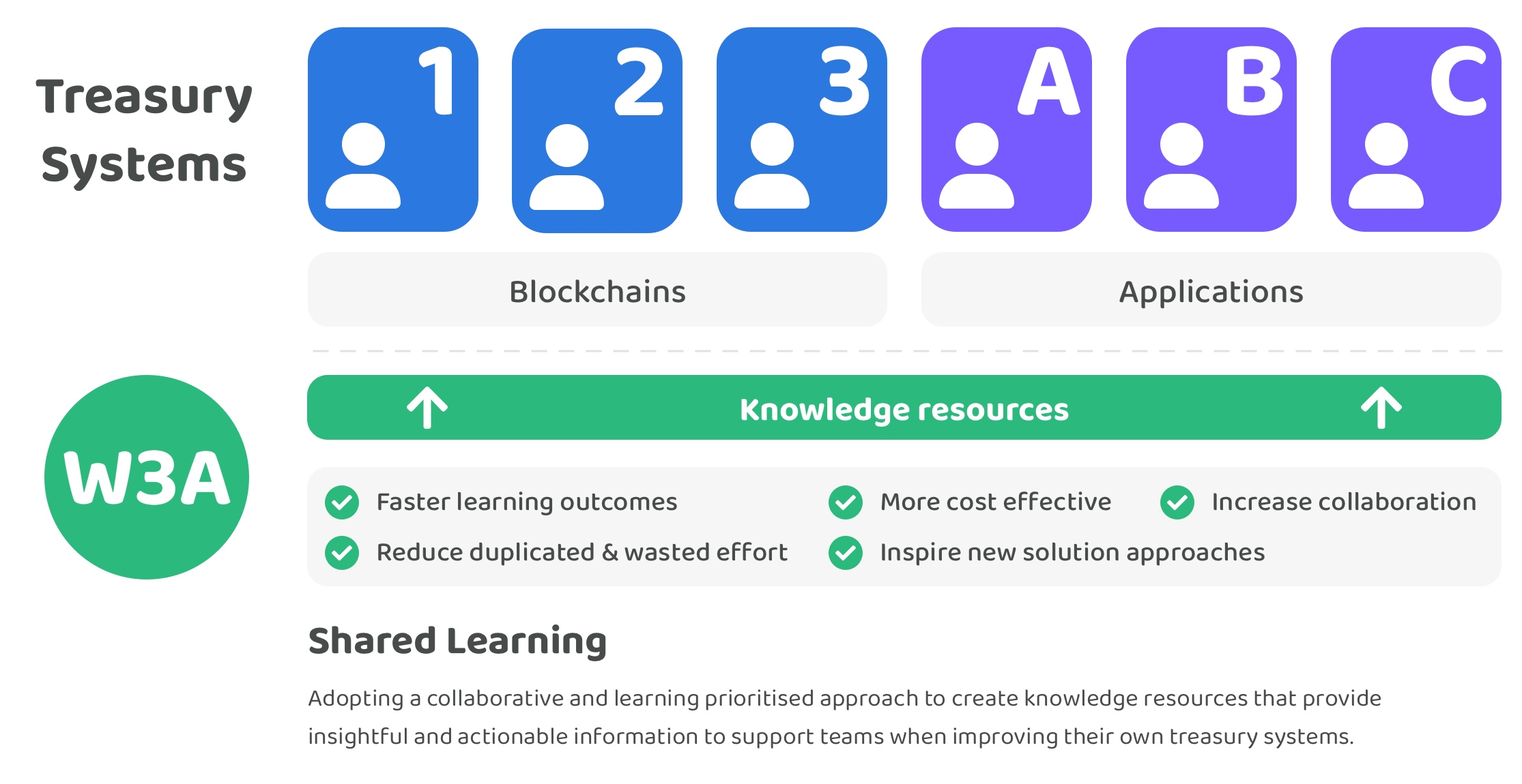
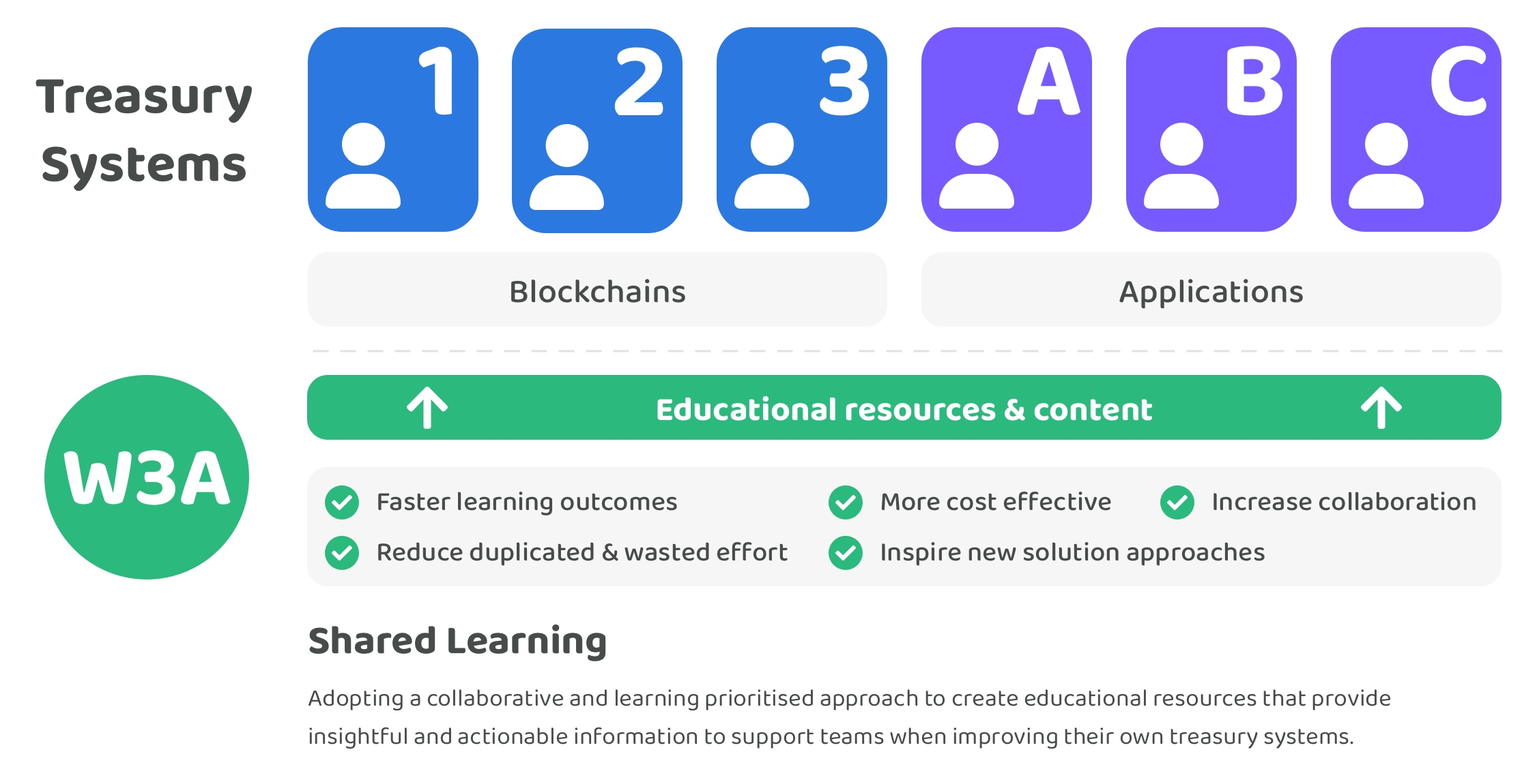
GITBOOK-124: change request with no subject merged in GitBook

Changed region(s): [[0.4332, 0.487, 0.7735, 0.5478], [0.6807, 0.8826, 0.9283, 0.913]]

diff --git a/approach/shared-learning-approach.md b/approach/shared-learning-approach.md
@@ -43,11 +43,11 @@ Without any collaborative and supportive structures in place most treasury teams
 
 <figure><img src="../.gitbook/assets/shared-learning.jpg" alt=""><figcaption></figcaption></figure>
 
-A focus on shared learning means increasing the amount of available knowledge resources available for teams to use when improving and iterating on their own treasury systems. The goal of shared learning is to help maximise collaboration and any learnings made across the industry. This helps increase the rate in which existing treasury systems can be improved and more widely adopted. Knowledge resources will focus on providing insights and actionable information for each ecosystem so they can more quickly identify ways to improve their treasury system in being able to manage and distribute community assets. Focussing on collaboration and shared learning creates an opportunity to help the wider industry achieve their goals at a faster rate. Our goal is for our knowledge resources to eventually become the industry preferred location to learn about treasury systems.
+A focus on shared learning means increasing the amount of available educational resources available for teams to use when improving and iterating on their own treasury systems. The goal of shared learning is to help maximise collaboration and any learnings made across the industry. This helps increase the rate in which existing treasury systems can be improved and more widely adopted. Educational resources will focus on providing insights and actionable information for each ecosystem so they can more quickly identify ways to improve their treasury system in being able to manage and distribute community assets. Focussing on collaboration and shared learning creates an opportunity to help the wider industry achieve their goals at a faster rate. Our goal is for our educational resources to eventually become the industry preferred location to learn about treasury systems.
 
 
 
-A group of contributors focussed on shared learning creates the opportunity for a supportive structure for helping existing teams building treasury solutions. Contributors would directly collaborate with and help existing teams through research, analysis and suggestions that focus on improving the knowledge available about treasury systems. The main [contribution outcomes ](contribution-outcomes/)of an approach focussing on shared learning is the creation of knowledge resources for the benefit of ecosystems building treasury solutions. Over the longer term there is also an opportunity to help with the development of open source software and supporting standardisation efforts.
+A group of contributors focussed on shared learning creates the opportunity for a supportive structure for helping existing teams building treasury solutions. Contributors would directly collaborate with and help existing teams through research, analysis and suggestions that focus on improving the knowledge available about treasury systems. The main [contribution outcomes ](contribution-outcomes/)of an approach focussing on shared learning is the creation of educational resources for the benefit of ecosystems building treasury solutions. Over the longer term there is also an opportunity to help with the development of open source software and supporting standardisation efforts.
 
 
 
@@ -57,13 +57,13 @@ A group of contributors focussed on shared learning creates the opportunity for 
 * **More cost effective** - Insightful and actionable information about treasury systems is beneficial for many blockchains and applications across Web3 ecosystems. A shared learning approach can become highly cost effective for these ecosystems as the cost of the contribution efforts can be split between each of the participating ecosystems. The full outcome of any resources created are available for the benefit of the entire industry. The more that the costs for these types of contributions can be shared across many ecosystems the more cost efficient the industry becomes in improving treasury systems. Reducing these costs also means that each ecosystem is then able to direct more funding to other impactful initiatives rather than doing repeated and similar work by themselves in isolation.
 * **Reduce duplicated & wasted effort** - Each existing team in the industry won’t need to spend the same amount of time doing deep research and analysis if they can support an approach that effectively creates those outcomes for them. Resources that increase the amount of knowledge available about treasury systems will help existing teams building treasury solutions be able to spend time on unsolved problems and avoid common pitfalls and mistakes. Removing the need for teams to conduct as much research and analysis themselves will help to reduce the duplicated and wasted effort that could happen across the industry.
 * **Inspire new solution approaches** - Resources that cover a wide range of potential ways that a treasury system could be approached can help with inspiring existing teams with finding new and novel ways to approach solving important treasury problems. More experimentation is greatly beneficial to the wider industry as any outcomes can be recorded and shared across different ecosystems when iterating on their own treasury system.
-* **Increase collaboration** - Contributors that help with creating treasury knowledge resources for the wider industry would not be competing with any existing teams building solutions. Ecosystems that financially support shared learning efforts can help to align the incentives for increasing the amount of collaboration between as many teams as possible by enabling contributors to help with creating high quality resources that can generate ongoing impact for those ecosystems. The higher the participation becomes for this shared learning approach the faster that teams across the industry can iterate and improve their own solutions. Increasing the diversity of skills, backgrounds, values and cultures involved in the creation of these knowledge resources can help with generating higher quality and more informed outcomes. Feedback from existing teams will also help to provide an effective path for iterating and improving these resources and increasing their overall impact over time.
+* **Increase collaboration** - Contributors that help with creating treasury educational resources for the wider industry would not be competing with any existing teams building solutions. Ecosystems that financially support shared learning efforts can help to align the incentives for increasing the amount of collaboration between as many teams as possible by enabling contributors to help with creating high quality resources that can generate ongoing impact for those ecosystems. The higher the participation becomes for this shared learning approach the faster that teams across the industry can iterate and improve their own solutions. Increasing the diversity of skills, backgrounds, values and cultures involved in the creation of these knowledge resources can help with generating higher quality and more informed outcomes. Feedback from existing teams will also help to provide an effective path for iterating and improving these resources and increasing their overall impact over time.
 
 
 
 **Potential issues**
 
-* **Collaboration time cost** - Existing communities and projects may not have much time to give and receive feedback on different problem areas they are working on. This could make it difficult to create knowledge resources with the same detail of information. Although this could be an issue it is not a blocker for making quality knowledge resources. Most data about the outcomes of many treasury systems is publicly available meaning it wouldn't prevent any contributors from being able to identify the approaches being used and what relevant insights and data points exist that can help identify effective solution approaches.
+* **Collaboration time cost** - Existing communities and projects may not have much time to give and receive feedback on different problem areas they are working on. This could make it difficult to create educational resources with the same detail of information. Although this could be an issue it is not a blocker for making quality educational resources. Most data about the outcomes of many treasury systems is publicly available meaning it wouldn't prevent any contributors from being able to identify the approaches being used and what relevant insights and data points exist that can help identify effective solution approaches.
 
 
 
@@ -73,13 +73,13 @@ A group of contributors focussed on shared learning creates the opportunity for 
 
 **Complementary and supportive approach**
 
-Contributors focussed on shared learning will be able to provide a complimentary and supportive structure to improve the knowledge and resources available around the focus area of treasury systems. Knowledge resources can be used across all Web3 ecosystems to help with improving their own treasury system. Incentivising shared learning at a foundational level can help better support existing teams who are building and learning about how to improve their own treasury system rather than working in isolation. A small capital allocation from different Web3 ecosystems towards increasing the amount of shared learning and knowledge available presents a large opportunity to increase the speed that Web3 ecosystems can collectively identify and adopt the more effective solutions. Quality knowledge, learnings and open source software that is readily available for usage and integration by existing project teams can help them to iterate more quickly and save time by reducing duplicated and wasted efforts.
+Contributors focussed on shared learning will be able to provide a complimentary and supportive structure to improve the knowledge and resources available around the focus area of treasury systems. Educational resources can be used across all Web3 ecosystems to help with improving their own treasury system. Incentivising shared learning at a foundational level can help better support existing teams who are building and learning about how to improve their own treasury system rather than working in isolation. A small capital allocation from different Web3 ecosystems towards increasing the amount of shared learning and knowledge available presents a large opportunity to increase the speed that Web3 ecosystems can collectively identify and adopt the more effective solutions. Quality knowledge, learnings and open source software that is readily available for usage and integration by existing project teams can help them to iterate more quickly and save time by reducing duplicated and wasted efforts.
 
 
 
 **Effectively incentivised collaboration**
 
-Contributors working under a shared learning approach are highly incentivised to collaborate with as many existing teams as possible to provide value and share learnings across Web3 ecosystems. Contributors supporting efforts to increase the knowledge around a given problem area are not competing with existing teams making treasury systems. Existing projects that benefit from more knowledge resources are more incentivised to support and collaborate with that ongoing work and provide feedback or request areas of improvement to further benefit the evolution of their own treasury system.
+Contributors working under a shared learning approach are highly incentivised to collaborate with as many existing teams as possible to provide value and share learnings across Web3 ecosystems. Contributors supporting efforts to increase the knowledge around a given problem area are not competing with existing teams making treasury systems. Existing projects that benefit from more educational resources are more incentivised to support and collaborate with that ongoing work and provide feedback or request areas of improvement to further benefit the evolution of their own treasury system.
 
 
 

diff --git a/approach/contribution-process/README.md b/approach/contribution-process/README.md
@@ -6,27 +6,27 @@ description: >-
 
 # 🏃♂ Contribution process
 
-The following contribution process outlines the main steps involved for creating the contribution outcomes of knowledge resources, open source software and standards. Each step in this process can be started and repeatedly revisited over time as more data and insights emerge. For this contribution process to be truly effective it will need have the right environment. Some factors worth consideration in [creating the right environment](creating-the-right-environment.md) will be directing focus towards impact alignment, collaboration, iterating on the contribution process, increasing participation diversity and providing ongoing maintenance and support to improve any of resources.
+The following contribution process outlines the main steps involved for creating the contribution outcomes of educational resources, open source software and standards. Each step in this process can be started and repeatedly revisited over time as more data and insights emerge. For this contribution process to be truly effective it will need have the right environment. Some factors worth consideration in [creating the right environment](creating-the-right-environment.md) will be directing focus towards impact alignment, collaboration, iterating on the contribution process, increasing participation diversity and providing ongoing maintenance and support to improve any of resources.
 
 <figure><img src="../../.gitbook/assets/contribution-process.jpg" alt=""><figcaption></figcaption></figure>
 
 
 
-### **Knowledge resources (Short term)**
+### **Educational resources (Ongoing priority)**
 
-The usefulness of any insights generated by the knowledge resources created will ultimately determine how much impact the Web3 Association will generate towards supporting and improving treasury systems. Any knowledge resources that we create will be revisited on an ongoing basis as new insights, data and feedback emerge. Knowledge resources are the most important contribution to the Web3 Association if we are to effectively achieve our goal of making insightful and actionable resources for learning about and improving treasury systems. Our goal over time will be to create the industry preferred resources regarding treasury systems.
+The usefulness of any insights generated by the educational resources created will ultimately determine how much impact the Web3 Association will generate towards supporting and improving treasury systems. Any educational resources that we create will be revisited on an ongoing basis as new insights, data and feedback emerge. Educational resources are the most important contribution to the Web3 Association if we are to effectively achieve our goal of making insightful and actionable resources for learning about and improving treasury systems. Our goal over time will be to create the industry preferred resources regarding treasury systems.
 
 
 
 **1. Identify focus area**
 
-Initial contribution outcomes made towards supporting and improving treasury systems will be achieved by selecting one focus area at a time to start the iterative process of inviting collaboration, conducting research and analysis and then making suggestions to create useful knowledge resources. Contributors operating under a shared learning approach will collaborate with teams building treasury systems to identify which areas are the most important to work on in the short term. Some example areas could be defining the types of funding initiatives that can exist with what data is needed for different proposals types, how they could be assessed prior to funding them and also how they can be tracked or measured once funded. Selecting smaller areas of focus will help with speeding up the process of going through the iterative loop of creating knowledge resources, getting feedback and then repeating the process to keep improving those resources.
+Initial contribution outcomes made towards supporting and improving treasury systems will be achieved by selecting one focus area at a time to start the iterative process of inviting collaboration, conducting research and analysis and then making suggestions to create useful educational resources. Contributors operating under a shared learning approach will collaborate with teams building treasury systems to identify which areas are the most important to work on in the short term. Some example areas could be defining the types of funding initiatives that can exist with what data is needed for different proposals types, how they could be assessed prior to funding them and also how they can be tracked or measured once funded. Selecting smaller areas of focus will help with speeding up the process of going through the iterative loop of creating educational resources, getting feedback and then repeating the process to keep improving those resources.
 
 
 
 **2. Invite collaborators**
 
-Once a small area of contribution is selected the next step will be to invite collaborators from any teams building treasury solutions. These collaborators could come from existing business and organisations as well as emerging Web3 ecosystems. Invitations for collaboration will include a request for feedback on what areas they believe should be prioritised in the short term and then also some information regarding how these contribution outcomes could benefit their own treasury systems ongoing development. Existing projects will not need to collaborate with the contributors working on these specific areas of work for the contribution outcomes to be generated. Effort should be made to increase the amount of participation wherever possible to help with increasing the diversity of insights and opinion that can be incorporated into the knowledge resources.
+Once a small area of contribution is selected the next step will be to invite collaborators from any teams building treasury solutions. These collaborators could come from existing business and organisations as well as emerging Web3 ecosystems. Invitations for collaboration will include a request for feedback on what areas they believe should be prioritised in the short term and then also some information regarding how these contribution outcomes could benefit their own treasury systems ongoing development. Existing projects will not need to collaborate with the contributors working on these specific areas of work for the contribution outcomes to be generated. Effort should be made to increase the amount of participation wherever possible to help with increasing the diversity of insights and opinion that can be incorporated into the educational resources.
 
 
 
@@ -50,7 +50,7 @@ Once the focus area is better understood through research and analysis the next 
 
 ### **Open source software (Medium term)**
 
-As more knowledge resources are created and trends begin to emerge we might identify opportunities to develop open source software that will benefit a wide range of teams building treasury systems. It could be years until more effective solutions are established which would create the opportunity to create an open source reference implementation of that solution. The key consideration to make will be from looking at what existing open source software already exists in different ecosystems and then determining how widespread the impact would actually be for those ecosystems if certain open source software were to be developed.
+As more educational resources are created and trends begin to emerge we might identify opportunities to develop open source software that will benefit a wide range of teams building treasury systems. It could be years until more effective solutions are established which would create the opportunity to create an open source reference implementation of that solution. The key consideration to make will be from looking at what existing open source software already exists in different ecosystems and then determining how widespread the impact would actually be for those ecosystems if certain open source software were to be developed.
 
 
 

diff --git a/README.md b/README.md
@@ -16,13 +16,13 @@ Fix the incentives through the evolution of treasuries.
 
 🎯 [**Focus**](focus.md)
 
-Our focus is to support existing teams across Web3 ecosystems with improving their treasury systems. We achieve this through the creation and continued improvement of knowledge resources that help provide insights and actionable information for teams to use when improving their own treasury systems. The Web3 Association is looking to create the industry preferred destination to learn about Web3 treasuries. We're looking to nurture and grow a collaborative effort to bring people together from across the industry to more effectively share knowledge about how treasuries can be approached to more effectively generate impact.
+Our focus is to support existing teams across Web3 ecosystems with improving their treasury systems. We achieve this through the creation and continued improvement of educational resources that help provide insights and actionable information for teams to use when improving their own treasury systems. The Web3 Association is looking to create the industry preferred destination to learn about Web3 treasuries. We're looking to nurture and grow a collaborative effort to bring people together from across the industry to more effectively share knowledge about how treasuries can be approached to more effectively generate impact.
 
 
 
 💡 [**Approach**](approach/)
 
-Our core contribution outcome will be the creation of knowledge resources about treasury systems that provide insightful and actionable information for teams to use when improving their own treasury systems across Web3. A shared learning approach is being adopted that will focus on increasing the amount of collaboration and shared learnings for the benefit of all teams building solutions. Creating knowledge resources will mean identifying one focus area at a time, inviting collaborators to participate, conducting research and analysis and then making suggestions based upon those findings. Knowledge resources are the core focus and outcome from our contribution efforts. Over a longer time horizon there should also be opportunities for us to generate more impact for treasury systems by helping create open source software and supporting any standardisation efforts.
+Our core contribution outcome will be the creation of educational resources about treasury systems that provide insightful and actionable information for teams to use when improving their own treasury systems across Web3. A shared learning approach is being adopted that will focus on increasing the amount of collaboration and shared learnings for the benefit of all teams building solutions. Creating educational resources will mean identifying one focus area at a time, inviting collaborators to participate, conducting research and analysis and then making suggestions based upon those findings. Educational resources and content is a core focus for our contribution efforts. Over a longer time horizon there should also be opportunities for us to generate more impact for treasury systems by helping create open source software and supporting any standardisation efforts.
 
 
 

diff --git a/approach/contribution-outcomes/README.md b/approach/contribution-outcomes/README.md
@@ -6,13 +6,13 @@ description: >-
 
 # 🤲 Contribution outcomes
 
-The following contribution outcomes are how the Web3 Association intend to help support and improve treasury systems. Knowledge resources are the main contribution outcome that is a main core focus over the short and long term. As treasury systems improve and more knowledge resources are created the other areas of contribution could then also include helping with developing open source software and the creation of standards.
+The following contribution outcomes are how the Web3 Association intend to help support and improve treasury systems. Educational resources are the main contribution outcome that is a main core focus over the short and long term. As treasury systems improve and more educational resources are created the other areas of contribution could then also include helping with developing open source software and the creation of standards.
 
 
 
-## **Knowledge resources**
+## **Educational resources**
 
-The creation and improvement of knowledge resources is the main outcome to expect from most of our contribution efforts. Resources will constantly be reviewed, iterated and improved over time as new information and insights become available.
+The creation and improvement of educational resources is the main outcome to expect from most of our contribution efforts. Resources will constantly be reviewed, iterated and improved over time as new information and insights become available.
 
 
 

diff --git a/contributors/george-lovegrove/contribution-log/august-2023.md b/contributors/george-lovegrove/contribution-log/august-2023.md
@@ -15,7 +15,7 @@ description: Contributions for August 2023
 
 **Contribution log**
 
-* Setup documentation website for general treasury knowledge resources - [treasuries.co](http://treasuries.co)
+* Setup documentation website for general treasury educational resources - [treasuries.co](http://treasuries.co)
 * Added treasuries resources
   * [Definition, purpose & responsibilities](https://docs.treasuries.co/treasuries/definition-purpose-and-responsibilities)
   * [Functional processes](https://docs.treasuries.co/treasuries/functional-processes)
@@ -25,7 +25,7 @@ description: Contributions for August 2023
   * [Opportunities & concerns](https://docs.treasuries.co/web-3-treasuries/opportunities-and-concerns)
   * [Stakeholders](https://docs.treasuries.co/web-3-treasuries/stakeholders)
   * [Operating process](https://docs.treasuries.co/web-3-treasuries/operating-process)
-* Setup documentation for disbursement knowledge resources - [disbursement.treasuries.co](https://disbursement.treasuries.co/)
+* Setup documentation for disbursement educational resources - [disbursement.treasuries.co](https://disbursement.treasuries.co/)
 * Added disbursement resources
   * [Disbursement operating process](https://disbursement.treasuries.co/disbursement-process/disbursement-operating-process)
   * [Disbursement process rate of change](https://disbursement.treasuries.co/disbursement-process/disbursement-operating-process/disbursement-process-rate-of-change)

diff --git a/focus.md b/focus.md
@@ -6,11 +6,11 @@ description: >-
 
 # 🎯 Focus
 
-The sole focus for the Web3 Association will be the creation of knowledge resources that support the continued development and improvement of treasury systems across Web3 ecosystems.
+The sole focus for the Web3 Association will be the creation of educational resources and content that supports the continued development and improvement of treasury systems across Web3 ecosystems.
 
 
 
-### **Why focus on treasury systems?**
+## **Why focus on treasury systems?**
 
 Treasury systems help with the storage, management and distribution of assets owned by a community. Existing governments and institutions as well as many emerging Web3 projects are all examples of communities both large and small that rely on effective treasury systems to manage how funds are collected and distributed to most effectively benefit their communities.
 

diff --git a/roadmap/current-roadmap-plan.md b/roadmap/current-roadmap-plan.md
@@ -18,9 +18,9 @@ The outcomes from both these initiatives will help with identifying some of the 
 
 
 
-<figure><img src="../.gitbook/assets/knowledge-resources.png" alt=""><figcaption></figcaption></figure>
+<figure><img src="../.gitbook/assets/educational-resources.png" alt=""><figcaption></figcaption></figure>
 
-A set of resources have already been created around the different disbursement approaches that teams building treasuries could consider. We’re looking to further explore and deep dive into this area to perfect these resources and expand on this work.
+A number of educational resources have already been created around the different disbursement approaches that teams building treasuries could consider. We’re looking to further explore and deep dive into this area to perfect these resources and expand on this work.
 
 
 

diff --git a/approach/README.md b/approach/README.md
@@ -1,7 +1,7 @@
 ---
 description: >-
   Outlining the approach, contribution outcomes and process that will be adopted
-  to support and improve treasury systems across web 3 ecosystems
+  to support and improve treasury systems across Web3 ecosystems
 ---
 
 # 💡 Approach
